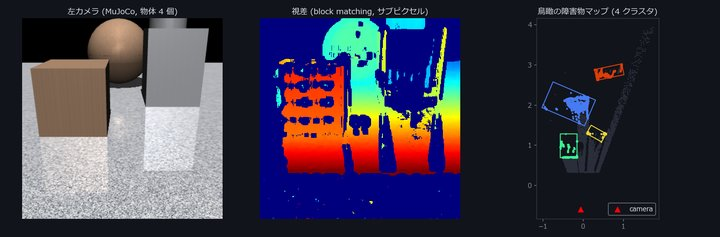
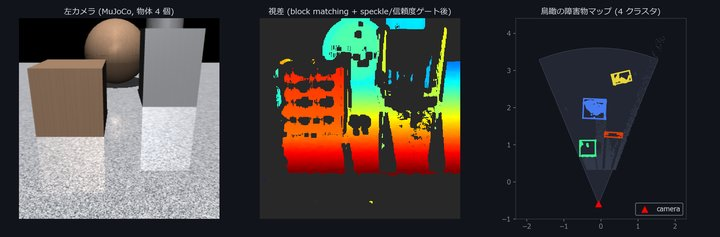
auto: gen_industrial_gallery.py 編集前 (2026-08-30 17:06)

diff --git a/tools/gen_industrial_gallery.py b/tools/gen_industrial_gallery.py
@@ -951,7 +951,7 @@ def subject_stereo_obstacles(log=print) -> dict:
         raise RuntimeError(f"ground plane off: {ground_med:.3f}m")
 
     obst = P[P[:, 2] > 0.12]
-    clusters = fs.euclidean_clusters(obst, tol=0.25, min_size=150)
+    clusters = fs.euclidean_clusters(obst, tol=0.30, min_size=150)
     log(f"  obstacle clusters={len(clusters)} sizes="
         f"{[len(c) for c in clusters]} (scene objects=4)")
     if len(clusters) != 4:

diff --git a/docs/articles/assets/_industrial_snippet.md b/docs/articles/assets/_industrial_snippet.md
@@ -76,7 +76,7 @@
 
 (フル解像度: https://raw.githubusercontent.com/furuse-kazufumi/fullseye/master/docs/articles/assets/phai_stereo_obstacles.png )
 
-2 台のカメラ画像のズレ(視差)をブロックマッチングで求め、Z = f·b/d で奥行きに変換して 3D 点群へ。高さ 12cm 超の点をクラスタリングすると 4 物体が 4 クラスタに分かれ、鳥瞰の障害物マップができる。移動ロボットの視覚の定番パイプライン。 使用 op: disparity_subpixel (stereo), disparity_confidence (stereo), colorize_disparity, euclidean_clusters, fit_rectangle2。データ: MuJoCo レンダのステレオペア (基線 12cm, 物体 4 個 = 真値)。
+2 台のカメラ画像のズレ(視差)をブロックマッチングで求め、Z = f·b/d で奥行きに変換して 3D 点群へ。高さ 12cm 超の点をクラスタリングすると 4 物体が 4 クラスタに分かれ、鳥瞰の障害物マップができる。移動ロボットの視覚の定番パイプライン。 使用 op: disparity_subpixel (stereo), disparity_confidence (stereo), speckle_filter (stereo), colorize_disparity, euclidean_clusters, fit_rectangle2。データ: MuJoCo レンダのステレオペア (基線 12cm, 物体 4 個 = 真値)。
 
 ## bin picking 実動作 — 探索・把持・搬出のフルサイクル
 
